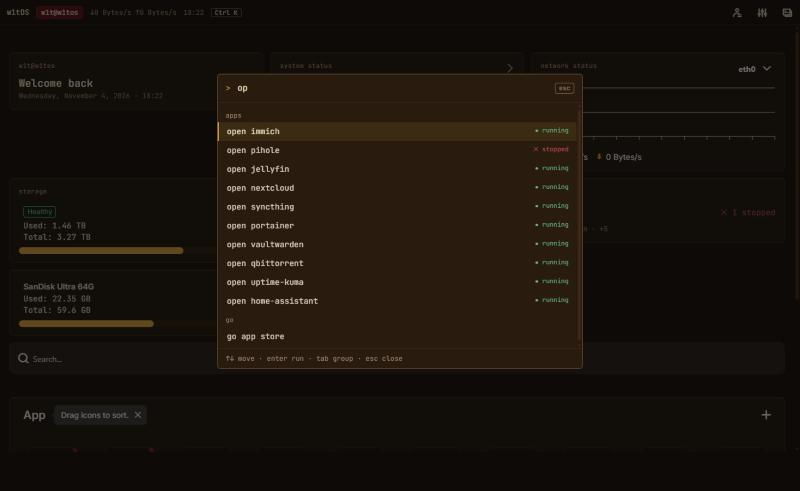
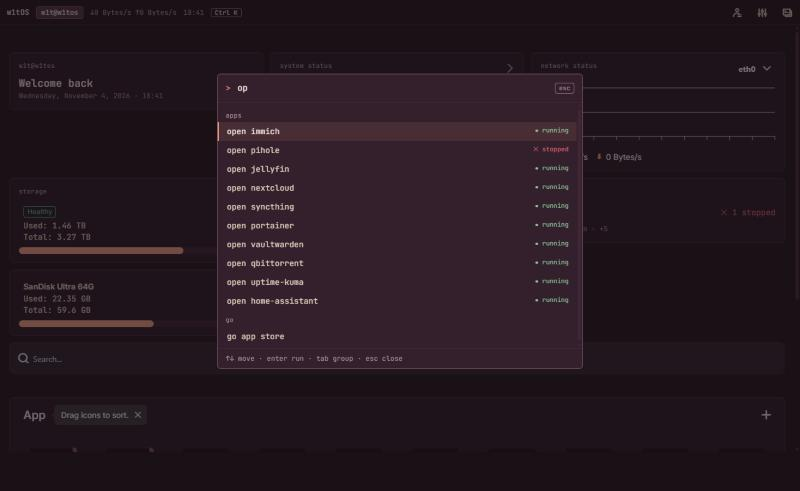
New default theme: plum-peach
Built from the Obsidian Plum / Baby Blossom / Creamy Peach / Blue
Loneliness palette and the canyon gold-to-rust gradients:
- Plum surfaces, cream text, peach accent, gold warn, rose error, cool blue
  for secondary data; meters fill with a gold-to-peach gradient
- Every text pair >= 4.5:1, controls >= 3:1; accent dE 40 from text and 28
  from error so peach never reads as danger; 16-colour terminal theme checked
- espresso-gold stays as the second preset; overlays now follow the preset
- New --cool and --accent-gradient tokens; README screenshots and token
  table updated

Changed region(s): [[0.0, 0.1222, 0.75, 0.7637], [0.0312, 0.0, 0.0938, 0.0305]]

diff --git a/scripts/brand.build.js b/scripts/brand.build.js
@@ -22,12 +22,32 @@ const presets = {
 			brightBlue: '#ADC3D4', brightMagenta: '#CFA0B3', brightCyan: '#9BC0B4', brightWhite: '#FAF3E6',
 		},
 	},
+
+	// Dusk plum + canyon peach. Every text pair >= 4.5:1, inputs >= 3:1 (WCAG 2.x); accent dE 40 from text, 28 from err.
+	'plum-peach': {
+		bg: '#1A1117', surface: '#24161F', raised: '#341F2C', inset: '#150D12',
+		line: '#3E2836', 'line-active': '#7A5063', 'line-strong': '#9C7A8B',
+		text: '#FAEFE9', 'text-soft': '#E2D5C2', muted: '#B49BA7',
+		accent: '#F4A384', 'accent-hover': '#F8C1A6',
+		burgundy: '#7A5063', maroon: '#4A2C3F',
+		ok: '#8CC49A', warn: '#EECB88', err: '#EE6E78', cool: '#8FB3C9',
+		'line-glow': 'rgba(250, 239, 233, 0.07)', 'accent-tint': 'rgba(244, 163, 132, 0.10)',
+		'accent-gradient': 'linear-gradient(90deg, #EECB88, #F4A384)',
+		terminal: {
+			background: '#1A1117', foreground: '#FAEFE9', cursor: '#F4A384', cursorAccent: '#1A1117',
+			selection: 'rgba(244, 163, 132, 0.28)',
+			black: '#24161F', red: '#EE6E78', green: '#8CC49A', yellow: '#EECB88',
+			blue: '#8FB3C9', magenta: '#CFA2C4', cyan: '#86C2BD', white: '#E2D5C2',
+			brightBlack: '#9C7A8B', brightRed: '#F4949C', brightGreen: '#A9D6B4', brightYellow: '#F6DDAD',
+			brightBlue: '#AECAD9', brightMagenta: '#DFBBD6', brightCyan: '#A7D6D1', brightWhite: '#FAEFE9',
+		},
+	},
 };
 
 const p = presets[brand.theme];
 if (!p) throw new Error(`Unknown theme "${brand.theme}"`);
 const sassKeys = ['bg', 'surface', 'raised', 'inset', 'line', 'line-active', 'line-strong', 'text', 'text-soft', 'muted',
-	'accent', 'accent-hover', 'burgundy', 'maroon', 'ok', 'warn', 'err'];
+	'accent', 'accent-hover', 'burgundy', 'maroon', 'ok', 'warn', 'err', 'cool'];
 const hdr = '// Generated by scripts/brand.build.js. Do not edit.\n';
 const dir = path.join(__dirname, '../src/assets/scss/common');
 
@@ -36,7 +56,7 @@ fs.writeFileSync(path.join(dir, '_brand.generated.scss'),
 	hdr + sassKeys.map((k) => `$ao-${k}: ${p[k]};`).join('\n') + '\n');
 
 // Runtime vars: imported once from app.scss.
-const cssKeys = [...sassKeys, 'line-glow', 'accent-tint'];
+const cssKeys = [...sassKeys, 'line-glow', 'accent-tint', 'accent-gradient'];
 fs.writeFileSync(path.join(dir, '_tokens.generated.scss'),
 	hdr + ':root {\n' + cssKeys.map((k) => `  --${k}: ${p[k]};`).join('\n') + '\n}\n');
 

diff --git a/src/widgets/Network.vue b/src/widgets/Network.vue
@@ -90,8 +90,8 @@ export default {
 				dataLabels: {
 					enabled: false,
 				},
-				// series 0 = up (muted), 1 = down (accent); read from the runtime tokens
-				colors: ['--muted', '--accent'].map(v => getComputedStyle(document.documentElement).getPropertyValue(v).trim()),
+				// series 0 = up (cool), 1 = down (accent); read from the runtime tokens
+				colors: ['--cool', '--accent'].map(v => getComputedStyle(document.documentElement).getPropertyValue(v).trim()),
 				stroke: {
 					curve: 'smooth',
 					width: 1,
@@ -248,7 +248,7 @@ export default {
 	z-index: 10;
 
 	.up {
-		color: var(--muted);
+		color: var(--cool);
 	}
 
 	.down {

diff --git a/src/assets/scss/common/_variables.scss b/src/assets/scss/common/_variables.scss
@@ -271,11 +271,11 @@ $backDropShadow: rgb(255 255 255 / 12.5%) 0.5px 1px 1px 0px inset;
 $avatar-border-color: hsl(0, 0%, 89%);
 
 // Loading
-$loading-background: rgba(14, 10, 7, 0.72);
+$loading-background: rgba($ao-bg, 0.72);
 $loading-icon-size: 2.5rem;
 
 // Modal
-$modal-background-background-color: rgba(14, 10, 7, 0.72);
+$modal-background-background-color: rgba($ao-bg, 0.72);
 
 // SideBar
 $sidebar-width: 22.5rem;

diff --git a/src/config/brand.config.js b/src/config/brand.config.js
@@ -5,5 +5,5 @@ module.exports = {
 	user: 'w1t',
 	host: 'w1tos', // status line shows w1t@w1tos
 	greeting: 'Welcome back',
-	theme: 'espresso-gold', // presets live in scripts/brand.build.js
+	theme: 'plum-peach', // or 'espresso-gold'; presets live in scripts/brand.build.js
 };

diff --git a/src/assets/scss/common/_bento.scss b/src/assets/scss/common/_bento.scss
@@ -151,7 +151,7 @@
 	&__fill {
 		display: block;
 		height: 100%;
-		background: var(--accent);
+		background: var(--accent-gradient);
 		transition: width var(--t-panel) var(--ease-out);
 		&.is-warn { background: var(--warn); }
 	}

diff --git a/README.md b/README.md
@@ -18,7 +18,7 @@ It is not affiliated with or endorsed by IceWhale. "CasaOS" is their name for th
 
 | Area | w1tOS UI |
 |---|---|
-| **Look** | Espresso-and-gold dark theme everywhere: no wallpaper, no blur. Every colour comes from one token set. |
+| **Look** | Dusk plum and canyon-peach dark theme everywhere: no wallpaper, no blur. Every colour comes from one token set. A second theme, espresso-gold, is included. |
 | **Login / first run** | Terminal-style prompt (`w1tos login:`), Enter to submit, inline errors |
 | **Dashboard** | Bento grid (12 / 6 / 1 columns) with a status line: `w1t@w1tos · ↓ ↑ rates · clock`. CPU and memory shown as text meters, plus a containers card. |
 | **Command palette** | `Ctrl+K` / `⌘K` to open apps, go to Files / App Store / Settings, or restart / shut down (you type the word to confirm). |
@@ -135,23 +135,30 @@ module.exports = {
   user: 'w1t',
   host: 'w1tos',         // status line shows w1t@w1tos
   greeting: 'Welcome back',
-  theme: 'espresso-gold',
+  theme: 'plum-peach',   // or 'espresso-gold'
 };
 ```
 
-Colours live in `scripts/brand.build.js`. It generates the Sass variables (which Bulma needs at compile time), the runtime CSS variables and the
+Two presets ship: **plum-peach** (default) and **espresso-gold**. Colours live in `scripts/brand.build.js`. It generates the Sass variables (which Bulma needs at compile time), the runtime CSS variables and the
 terminal theme from one preset, and runs automatically before `dev` and `build`. Components use `var(--token)` only.
 There are no hard-coded colours outside the generated files, and CI keeps it that way.
 
-| Token | Value | Use |
-|---|---|---|
-| `--bg` / `--surface` / `--raised` | `#0E0A07` / `#17110C` / `#291C0E` | page, cards, modals |
-| `--text` / `--text-soft` / `--muted` | `#F2E5C6` / `#E1D4C2` / `#A78D78` | headings, body, labels |
-| `--accent` / `--accent-hover` | `#D9A441` / `#F2D9A0` | buttons, focus ring, cursor |
-| `--burgundy` / `--maroon` | `#75162D` / `#560B18` | brand mark only (user@host pill, pinned badge) |
-| `--ok` / `--warn` / `--err` | `#68B684` / `#E8894A` / `#D9535E` | always paired with `●` / `▲` / `✕` |
+plum-peach tokens:
 
-Every token pair used for text meets WCAG AA (for example, primary text on the page background is 15.8:1).
+| Token | Value | Use | Contrast |
+|---|---|---|---|
+| `--bg` / `--surface` / `--raised` | `#1A1117` / `#24161F` / `#341F2C` | page, cards, modals | |
+| `--text` / `--text-soft` / `--muted` | `#FAEFE9` / `#E2D5C2` / `#B49BA7` | headings, body, labels | 16.4 / 12.0 / 6.8 : 1 |
+| `--accent` / `--accent-hover` | `#F4A384` / `#F8C1A6` | buttons, focus ring, cursor, meters (gold-to-peach gradient) | 9.2 : 1 |
+| `--cool` | `#8FB3C9` | secondary data (network upload, terminal blue) | 7.8 : 1 |
+| `--burgundy` / `--maroon` | `#7A5063` / `#4A2C3F` | brand mark only (user@host pill, pinned badge) | text on pill 10.8 : 1 |
+| `--ok` / `--warn` / `--err` | `#8CC49A` / `#EECB88` / `#EE6E78` | always paired with `●` / `▲` / `✕` | 8.7 / 11.2 / 5.9 : 1 |
+| `--line-strong` | `#9C7A8B` | input underlines, control edges | 4.9 : 1 |
+
+Contrast is measured on `--surface`, except text and accent, which are measured on `--bg`. Every text pair passes WCAG AA, and
+controls pass the 3:1 non-text rule. The accent is far enough from the text (ΔE 40) and from the error colour (ΔE 28) that
+peach never reads as danger. The surfaces come from Obsidian Plum `#4A2C3F` and the text from Baby Blossom `#FAEFE9` and
+Onion White `#E2D5C2`. The accent is Creamy Peach `#F4A384`, and the gold and terracotta come from the canyon palette.
 
 ## Project layout
 
